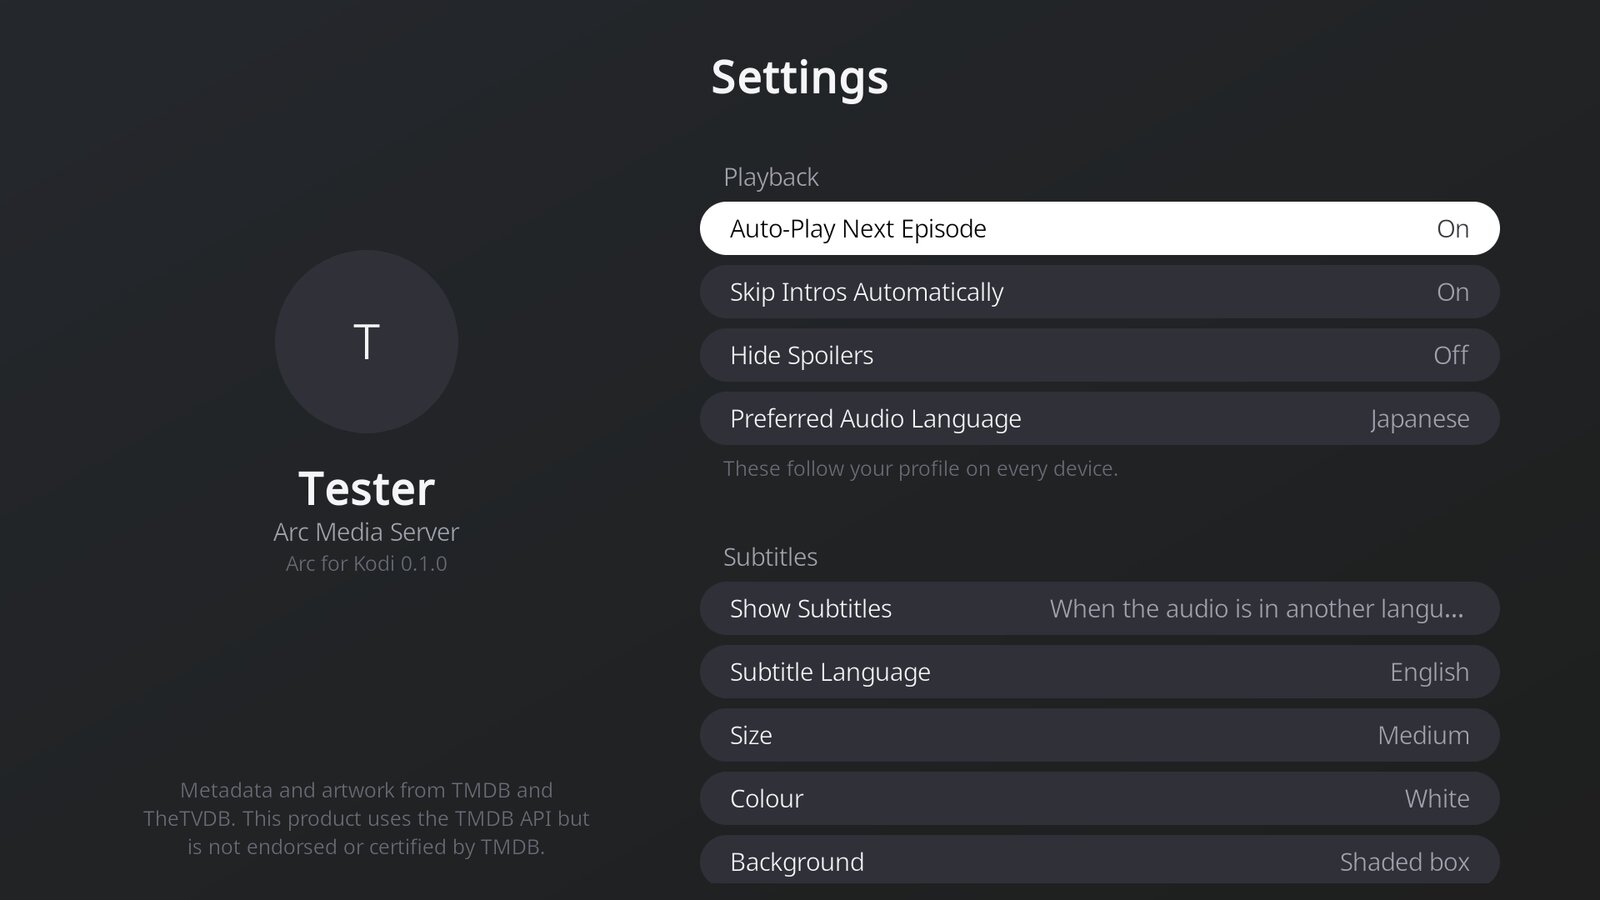
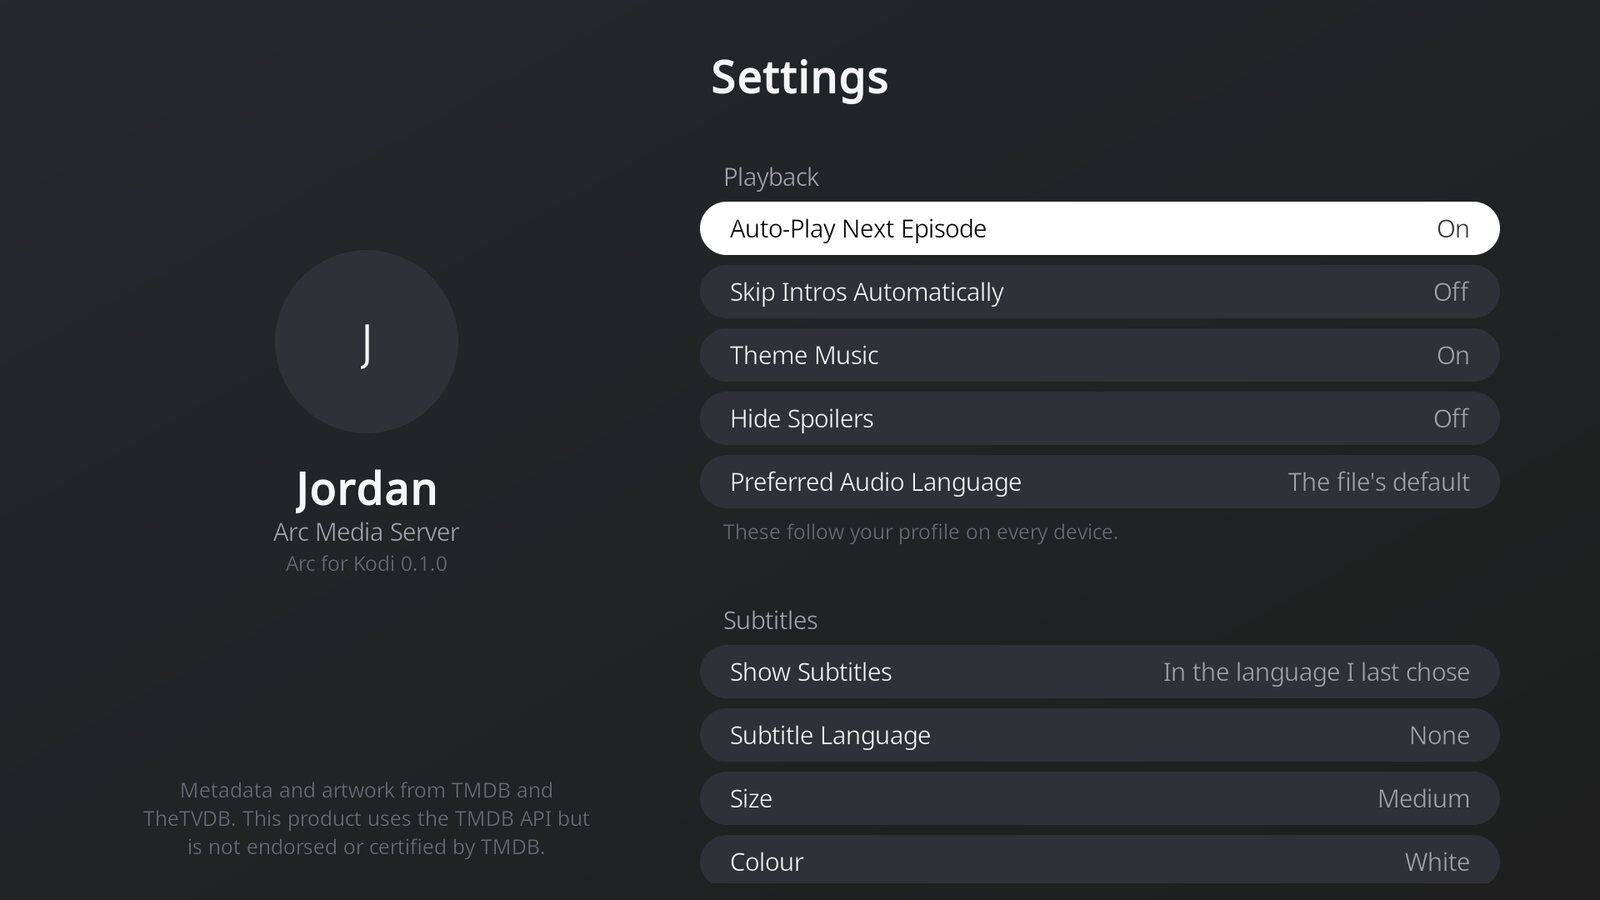
Retake the README screenshots from Arc's shared library (#41)
* Retake the README screenshots from Arc's shared library

The nine README pictures now come from Arc's shared screenshot library
(arc-media-server#489): well-known titles matched on TMDB, the same as
the server's and the other apps' pictures. Dune: Part Two and Breaking
Bad are the film and show pages. They are real Kodi under Xvfb against
the library's scratch server.

tools/readme_shots.py retakes them. It signs in through Arc's own
keyboard with remote keys, walks the pages and writes
docs/screenshots/*.jpg. It only accepts the scratch server on this
machine.

The README's alt text names each picture, and the TMDB credit sits
under them. DEVELOPING.md has the steps, and there is a change note.

* Change note: say the walk ran three times

---------

diff --git a/tools/readme_shots.py b/tools/readme_shots.py
@@ -1,0 +1,204 @@
+#!/usr/bin/env python3
+"""Retakes the README screenshots (docs/screenshots/*.jpg) in real Kodi against Arc's shared
+screenshot library (arc-media-server docs/SCREENSHOTS.md). Dev only.
+
+Start the library's scratch Arc in arc-media-server
+(`cd web && node tools/screenshots.mjs --serve --state <file>`), then Kodi on a virtual display
+with a fresh profile (docs/DEVELOPING.md, "Checking it in Kodi"), then:
+
+    python3 tools/readme_shots.py --state <file>
+
+It drives Kodi only with remote keys (tools/kodi_rpc.py), signs in with the library's household
+password (a throwaway one for a throwaway server; it is typed into Arc's keyboard, never stored
+or printed) and writes 1600-wide JPEGs. Never point it at a real server."""
+import argparse
+import json
+import os
+import subprocess
+import sys
+import time
+
+ROOT = os.path.dirname(os.path.dirname(os.path.abspath(__file__)))
+sys.path[:0] = [os.path.join(ROOT, "tools"), os.path.join(ROOT, "resources", "lib")]
+from arc import search  # noqa: E402
+from arc.keyboard import PAGES  # noqa: E402  (the address and password keyboard's pages)
+from kodi_rpc import DISPLAY, rpc  # noqa: E402
+
+OUT = os.path.join(ROOT, "docs", "screenshots")
+# Search's own keyboard, six keys across.
+SEARCH = {"search": ["".join(search.KEYS[i:i + search.COLUMNS])
+                     for i in range(0, len(search.KEYS), search.COLUMNS)]}
+
+
+def act(*actions, wait=0.6):
+    for a in actions:
+        rpc("Input.ExecuteAction", {"action": a})
+        time.sleep(wait)
+
+
+def focused():
+    r = rpc("GUI.GetProperties", {"properties": ["currentcontrol"]})
+    return r.get("result", {}).get("currentcontrol", {}).get("label", "")
+
+
+def settle(seconds=3.0):  # time for Arc's answers and the artwork
+    time.sleep(seconds)
+
+
+def shot(name):
+    os.makedirs(OUT, exist_ok=True)
+    path = os.path.join(OUT, name + ".jpg")
+    subprocess.run(["import", "-display", DISPLAY, "-window", "root", "-resize", "1600x900",
+                    "-quality", "84", path], check=True)
+    print(path)
+
+
+class Keyboard:
+    """Types into Arc's on-screen keyboard by moving focus key by key, as a remote would."""
+
+    def __init__(self, page, pages=PAGES):
+        self.page, self.row, self.col = page, 0, 0   # it opens on the first key
+        self.pages = pages
+
+    def _move(self, row, col):
+        while self.row < row:
+            act("down", wait=0.25); self.row += 1
+        while self.row > row:
+            act("up", wait=0.25); self.row -= 1
+        while self.col < col:
+            act("right", wait=0.25); self.col += 1
+        while self.col > col:
+            act("left", wait=0.25); self.col -= 1
+
+    def _bottom(self, label):
+        """Presses a key in the row under the grid (Shift, 123/ABC, Done) and comes back up."""
+        self._move(len(self.pages[self.page]) - 1, 0)
+        act("down", wait=0.4)
+        act(*["left"] * 6, wait=0.2)   # from Shift, at the row's left end
+        for _ in range(8):
+            if focused() == label:
+                break
+            act("right", wait=0.3)
+        else:
+            raise SystemExit("keyboard: no %r key" % label)
+        act("select", wait=0.5)
+        if label != "Done":
+            act("up", wait=0.4)
+            last = self.pages[self.page][-1]
+            self.row, self.col = len(self.pages[self.page]) - 1, max(0, last.find(focused()))
+
+    def _page_for(self, ch):
+        for page in [self.page] + list(self.pages):
+            if any(ch in r for r in self.pages[page]):
+                return page
+        raise SystemExit("keyboard: can't type %r" % ch)
+
+    def _go_to_page(self, page):
+        while self.page != page:
+            if {self.page, page} == {"lower", "upper"}:
+                self._bottom("Shift"); self.page = page
+            elif self.page == "symbols":
+                self._bottom("ABC"); self.page = "lower"
+            else:
+                self._bottom("123"); self.page = "symbols"
+
+    def type(self, text):
+        for ch in text:
+            self._go_to_page(self._page_for(ch))
+            for r, row in enumerate(self.pages[self.page]):
+                if ch in row:
+                    self._move(r, row.index(ch))
+            act("select", wait=0.3)
+
+    def done(self):
+        self._bottom("Done")
+
+    def clear(self):
+        self._bottom("Clear")
+
+
+def until(label, key, tries=10, match=str.__eq__):
+    """Presses key until the focused control's label matches."""
+    for _ in range(tries):
+        if match(focused(), label):
+            return
+        act(key)
+    raise SystemExit("couldn't reach %r (on %r)" % (label, focused()))
+
+
+def search_keys():
+    """Arc's search keyboard, wherever its focus is (Left until it's on a key)."""
+    until("", "left", match=lambda f, _: len(f) == 1)
+    kb, label = Keyboard("search", SEARCH), focused()
+    for r, row in enumerate(SEARCH["search"]):
+        if label in row:
+            kb.row, kb.col = r, row.index(label)
+    return kb
+
+
+def walk(state):
+    # Connect: the address field opens Arc's keyboard; Done connects.
+    act("select"); settle(1.5)
+    kb = Keyboard("lower")
+    kb.type(state["address"].replace("http://", ""))
+    kb.done(); settle(5)
+    shot("sign-in")                                  # the code to approve
+    until("Sign In with Password", "down")
+    act("select"); settle(1.5)
+    kb = Keyboard("lower")
+    kb.type(state["password"])                       # the library's throwaway password
+    kb.done(); settle(6)
+    shot("profiles")                                 # Who's watching?
+    until(state.get("admin", "Jordan"), "right")
+    act("select"); settle(10)
+    shot("home")
+
+    act("left"); until("Search", "up")
+    act("select"); settle(2)
+    search_keys().type("dune"); settle(5)
+    shot("search")
+    until("Dune: Part Two", "right")
+    act("select"); settle(8)
+    shot("film")
+    act("contextmenu"); settle(2)
+    until("Watch Together", "down", match=str.startswith)
+    act("select"); settle(4)
+    act("select"); settle(2)                         # tick the first person
+    shot("watch-together")
+    act("back", "back", wait=2)
+
+    kb = search_keys(); kb.clear(); kb.type("breaking"); settle(5)
+    until("Breaking Bad", "right")
+    act("select"); settle(8)
+    act("down", "down", wait=2)                      # onto the next episode, in the season row
+    shot("show")
+    for _ in range(3):                               # back to Home's sidebar
+        act("back", wait=3)
+        if focused() == "Search":
+            break
+    until("Movies", "down")
+    act("select"); settle(8)
+    until("Recommended", "up")
+    act("right", "select"); settle(6)                # Browse, with Play All, Shuffle, Sort, Filter
+    shot("library")
+    act("back"); settle(3)
+
+    until("Settings", "down")
+    act("select"); settle(5)
+    shot("settings")
+
+
+def main():
+    p = argparse.ArgumentParser()
+    p.add_argument("--state", required=True, help="the JSON written by screenshots.mjs --state")
+    args = p.parse_args()
+    with open(args.state) as f:
+        state = json.load(f)
+    if not state.get("address", "").startswith("http://127.0.0.1:"):
+        raise SystemExit("only the scratch screenshot server on this machine")
+    rpc("Addons.ExecuteAddon", {"addonid": "script.arc"}); settle(6)
+    walk(state)
+
+
+if __name__ == "__main__":
+    main()

diff --git a/docs/changes/2026-11-20-shared-screenshot-library.md b/docs/changes/2026-11-20-shared-screenshot-library.md
@@ -1,0 +1,53 @@
+# README screenshots from Arc's shared library
+
+The README's nine pictures are retaken against Arc's shared screenshot library
+(arc-media-server#489, its `docs/SCREENSHOTS.md`; owner, 20 November). The library is made of
+well-known films and shows matched on TMDB, so these pictures show the same titles, artwork,
+descriptions and cast as the server's and the other apps' pictures. The old pictures used the
+server's generated test library.
+
+- **Pages:** the same pages as the web README where the add-on has them:
+  - Home (Continue Watching, with Severance);
+  - the featured film, Dune: Part Two;
+  - the featured show, Breaking Bad;
+  - the Movies library (Browse);
+  - the profile picker (Jordan, Alex, Kids, Sam).
+
+  Also the pages the README already showed: search ("dune"), Watch Together's invite screen
+  (from Dune: Part Two, with the Kids profile greyed because it can't watch the film), Settings
+  and the sign-in code. The file names are unchanged. Each picture is a 1600×900 JPEG of real
+  Kodi at 1920×1080.
+- **Retaking them:** `tools/readme_shots.py` drives Kodi with remote keys over JSON-RPC:
+  - it types the address and the library's throwaway household password into Arc's own
+    keyboard, moving focus key by key as a remote would, and reads Kodi's focused label to find
+    its way;
+  - it walks the pages and writes `docs/screenshots/*.jpg`;
+  - it refuses any address that isn't the scratch server on this machine.
+
+  `docs/DEVELOPING.md` has the steps.
+- **README:**
+  - the alt text names what each picture shows;
+  - the TMDB credit sits under the pictures, worded as the server README's.
+- **Removed:** nothing. The add-on had no fixture data or tooling made only for the README
+  pictures, because the old pictures used the server's test library.
+
+## Checks
+
+- `python3 -m pytest -q` and `python3 tools/check.py`.
+- The walk: Kodi 20.5 under Xvfb (1920×1080) against the library's scratch Arc
+  (`node tools/screenshots.mjs --serve`, `127.0.0.1:18299`), run three times from a fresh Kodi
+  profile (the first run stopped at a Back step, since fixed). I looked at every picture.
+
+No real hardware was used. The pictures show layout, not playback.
+
+## Limits
+
+- Breaking Bad's backdrop is bright desert, so its description reads less strongly than on
+  darker artwork. It is still legible at full size, thanks to the text shadow.
+- The walk relies on the pages' current focus order. If a page's layout changes, the script
+  stops with the label it couldn't reach rather than taking a wrong picture.
+
+## Logging
+
+None: the add-on is unchanged. The script prints only the files it writes; it never prints the
+password, a token or a URL.

diff --git a/README.md b/README.md
@@ -18,7 +18,7 @@
 </p>
 
 <p align="center">
-  <img src="docs/screenshots/home.jpg" alt="Arc's Home in Kodi" width="900">
+  <img src="docs/screenshots/home.jpg" alt="Arc's Home in Kodi: Continue Watching, with Severance's artwork filling the screen" width="900">
 </p>
 
 ## What is Arc for Kodi?
@@ -37,18 +37,21 @@ resume points and settings are the same as on every other Arc app.
 
 <table>
   <tr>
-    <td width="50%"><img src="docs/screenshots/film.jpg" alt="A film's page"></td>
-    <td width="50%"><img src="docs/screenshots/show.jpg" alt="A show's page, with its seasons and episodes"></td>
+    <td width="50%"><img src="docs/screenshots/film.jpg" alt="Dune: Part Two's page, with Resume and its cast"></td>
+    <td width="50%"><img src="docs/screenshots/show.jpg" alt="Breaking Bad's page, with its first season's episodes"></td>
   </tr>
   <tr>
-    <td width="50%"><img src="docs/screenshots/library.jpg" alt="Browsing a library, with Play All, Shuffle, Sort and Filter"></td>
-    <td width="50%"><img src="docs/screenshots/search.jpg" alt="Search, with Arc's on-screen keyboard"></td>
+    <td width="50%"><img src="docs/screenshots/library.jpg" alt="Browsing Movies, with Play All, Shuffle, Sort and Filter"></td>
+    <td width="50%"><img src="docs/screenshots/search.jpg" alt="Searching for Dune with Arc's on-screen keyboard"></td>
   </tr>
   <tr>
-    <td width="50%"><img src="docs/screenshots/watch-together.jpg" alt="Inviting someone to Watch Together"></td>
-    <td width="50%"><img src="docs/screenshots/settings.jpg" alt="Settings, saved to your profile"></td>
+    <td width="50%"><img src="docs/screenshots/watch-together.jpg" alt="Inviting someone to watch Dune: Part Two together"></td>
+    <td width="50%"><img src="docs/screenshots/settings.jpg" alt="Settings, saved to Jordan's profile"></td>
   </tr>
 </table>
+
+<sub>Artwork and details from <a href="https://www.themoviedb.org">TMDB</a>. Films and shows belong
+to their owners; Arc doesn't include any media.</sub>
 
 ## What it does
 
@@ -83,7 +86,7 @@ are Arc's own, not your skin's.
 <table>
   <tr>
     <td width="50%"><img src="docs/screenshots/sign-in.jpg" alt="Signing in with a code"></td>
-    <td width="50%"><img src="docs/screenshots/profiles.jpg" alt="Who's watching?"></td>
+    <td width="50%"><img src="docs/screenshots/profiles.jpg" alt="Who's watching? Jordan, Alex, Kids and Sam"></td>
   </tr>
 </table>
 

diff --git a/docs/DEVELOPING.md b/docs/DEVELOPING.md
@@ -37,6 +37,11 @@ docs/changes/                   one note per change
   sign-in code with `POST /api/v1/auth/link/approve` from the scratch server's admin session.
   This shows layout, focus, navigation and the API flows, not playback quality: the virtual
   display has no audio device or GPU (Kodi's clock runs on past a clip's end without one).
+- **README screenshots** come from Arc's shared screenshot library (arc-media-server's
+  `docs/SCREENSHOTS.md`): run `node tools/screenshots.mjs --serve --state <file>` in the server's
+  `web/`, start Kodi as above with a fresh profile, then `python3 tools/readme_shots.py --state
+  <file>`. It signs in, walks the pages with remote keys and writes `docs/screenshots/*.jpg`;
+  look at each one before committing.
 - Kodi gotchas found that way: a control with a fixed `<visible>` ignores `setVisible()` (use a
   window property in the condition); focusing a control that shows only once it has items fails
   until Kodi's next frame (`focus_when_visible`); a grouplist rewrites its children's Up/Down, and
